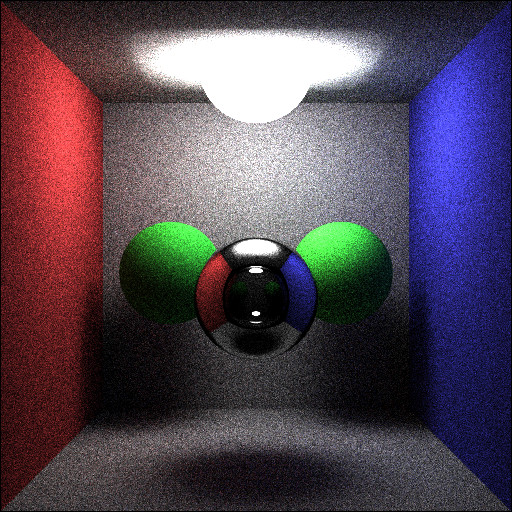
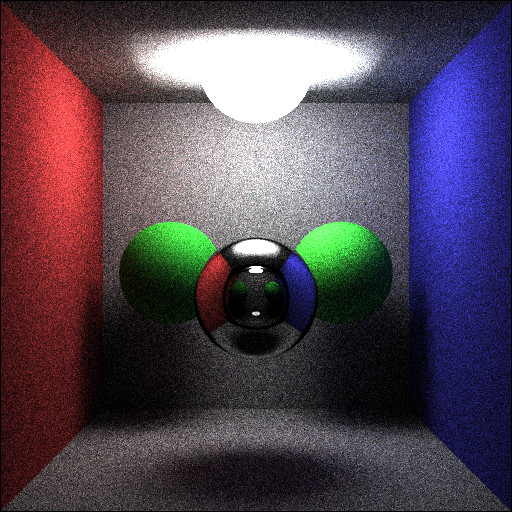
fresnel equation fix

diff --git a/src/Algorithms.cpp b/src/Algorithms.cpp
@@ -200,10 +200,10 @@ glm::vec3 Algorithms::RefractedIllumination(Intersection &intersection, Scene *s
 	} else {
 		//calculate reflection chance
 		float cosT = sqrt(1.0f - sinT2);
-		//fresnel equations, perhaps try schlick's approximation?
+		//fresnel equations
 		float Rt = (n1 * cosI - n2 * cosT) / (n1 * cosI + n2 * cosT);
 		float Rl = (n2 * cosI - n1 * cosT) / (n1 * cosT + n2 * cosI);
-		float R = (Rt*Rt + Rl*Rl)*0.5f;
+		R = (Rt*Rt + Rl*Rl)*0.5f;
 	}
 
 
